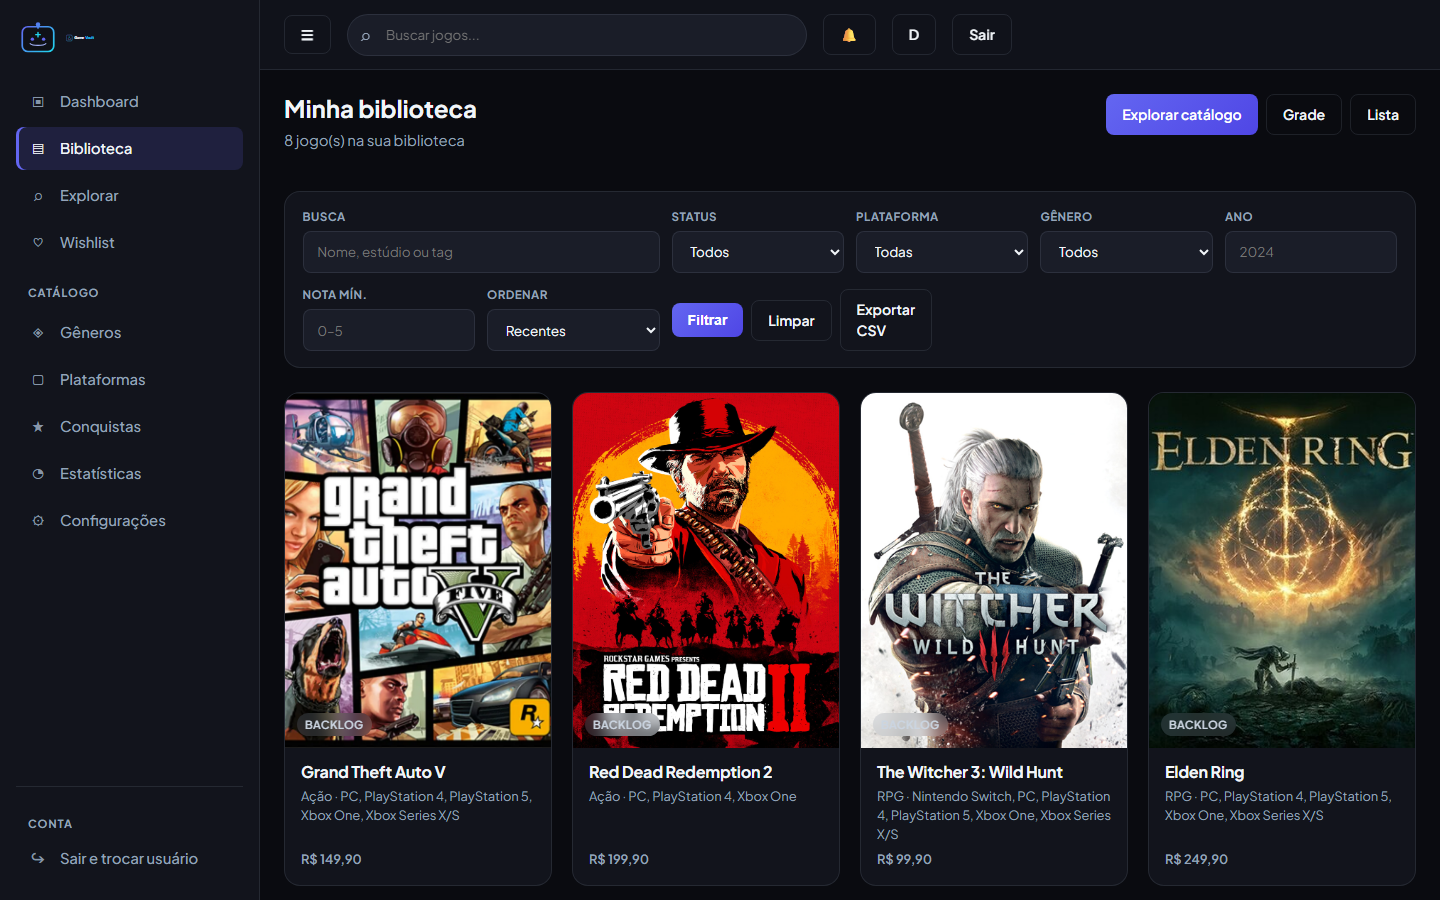
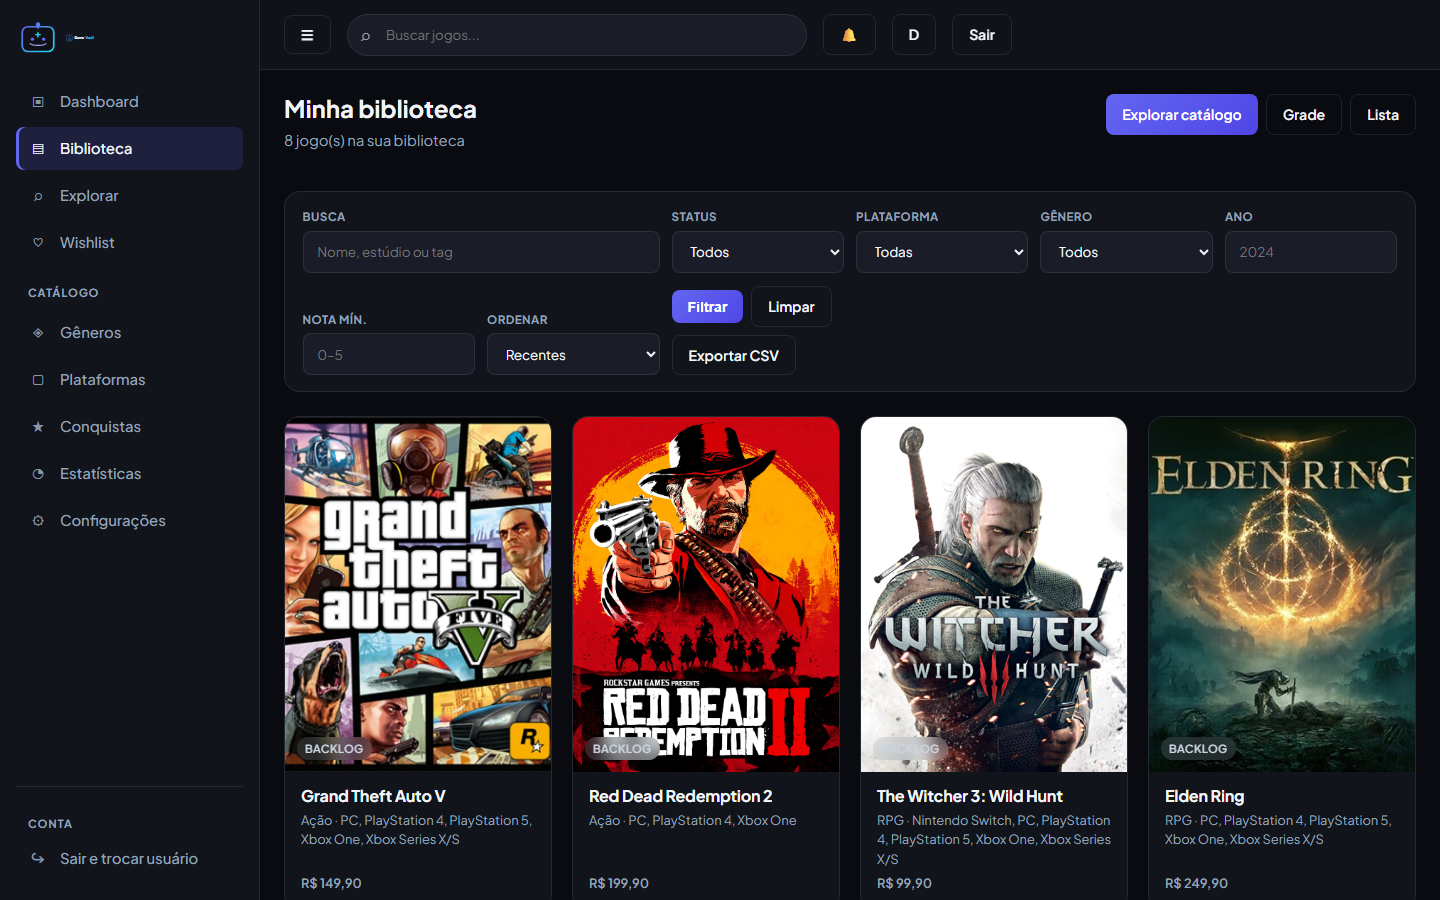
docs: captura do admin no README e botões sem quebra de linha
- .gv-btn com white-space: nowrap; ações dos filtros quebram como bloco
  (corrige "Exportar CSV" em duas linhas)
- script gera 14-admin.png (staff_demo, tema escuro) e README exibe o admin
- CAPTURAS.md: login em /login/ e nova captura listada

diff --git a/static/css/components.css b/static/css/components.css
@@ -105,6 +105,7 @@
   justify-content: center;
   gap: 0.4rem;
   padding: 0.55rem 1rem;
+  white-space: nowrap;
   border-radius: var(--radius-sm);
   border: none;
   cursor: pointer;
@@ -413,6 +414,7 @@
 
 .gv-filter-actions {
   display: flex;
+  flex-wrap: wrap;
   gap: 0.5rem;
   align-items: center;
 }

diff --git a/scripts/capture_screenshots.py b/scripts/capture_screenshots.py
@@ -152,6 +152,10 @@ def main() -> None:
             _shot(page, "07-formulario.png", "/novo/")
             if "/novo" not in page.url:
                 raise SystemExit(f"staff_demo não acessou /novo/ (URL atual: {page.url}).")
+            # Admin (Jazzmin) não tem a topbar do site: captura como página "pública".
+            # Tema "auto" do Jazzmin segue o SO; o painel foi desenhado para o escuro.
+            page.emulate_media(color_scheme="dark")
+            _shot(page, "14-admin.png", "/admin/", public=True, full_page=True)
         finally:
             browser.close()
 

diff --git a/docs/assets/telas/CAPTURAS.md b/docs/assets/telas/CAPTURAS.md
@@ -5,7 +5,7 @@
 | Arquivo | URL (`runserver 8765`) | Conteúdo |
 |---------|------------------------|----------|
 | `01-landing.png` | `/` | Landing pública |
-| `02-login.png` | `/conta/login/` | Login |
+| `02-login.png` | `/login/` | Login |
 | `04-dashboard.png` | `/dashboard/` | Dashboard acadêmico |
 | `05-biblioteca.png` | `/biblioteca/` | Minha biblioteca (entradas do usuário) |
 | `06-detalhe.png` | `/jogo/<id>/` | Detalhe do jogo |
@@ -16,6 +16,7 @@
 | `10-estatisticas.png` | `/estatisticas/` | Estatísticas + gráficos |
 | `11-catalogo-generos.png` | `/generos/` | CRUD de gêneros |
 | `12-configuracoes.png` | `/configuracoes/` | Tema + sair / trocar usuário |
+| `14-admin.png` | `/admin/` | Painel admin: status e atividade das bibliotecas (**staff_demo**) |
 
 ## Automático (Playwright)
 
@@ -35,7 +36,7 @@ python -m playwright install chromium
 python scripts/capture_screenshots.py
 ```
 
-Contas: **`demo`** / **`demo123456`** (usuário comum; biblioteca preenchida com jogos do catálogo) e **`staff_demo`** / **`demo123456`** (só para `07-formulario.png`).
+Contas: **`demo`** / **`demo123456`** (usuário comum; biblioteca preenchida com jogos do catálogo) e **`staff_demo`** / **`demo123456`** (só para `07-formulario.png` e `14-admin.png`).
 
 ## Manual
 

diff --git a/README.md b/README.md
@@ -89,6 +89,9 @@ Interface **v2.1** — cada legenda corresponde à imagem **logo abaixo** (mesma
     <td align="center"><strong>Perfil</strong><br><img src="docs/assets/telas/09-perfil.png" alt="Perfil do usuário" width="100%"></td>
     <td align="center"><strong>Configurações e sessão</strong><br><img src="docs/assets/telas/12-configuracoes.png" alt="Configurações e sair" width="100%"></td>
   </tr>
+  <tr>
+    <td align="center" colspan="2"><strong>Admin</strong> (staff)<br><img src="docs/assets/telas/14-admin.png" alt="Painel administrativo com status e atividade das bibliotecas" width="100%"></td>
+  </tr>
 </table>
 
 Para regerar as capturas: [`docs/assets/telas/CAPTURAS.md`](docs/assets/telas/CAPTURAS.md) ou `python scripts/capture_screenshots.py` (com `runserver` na porta **8765**).
